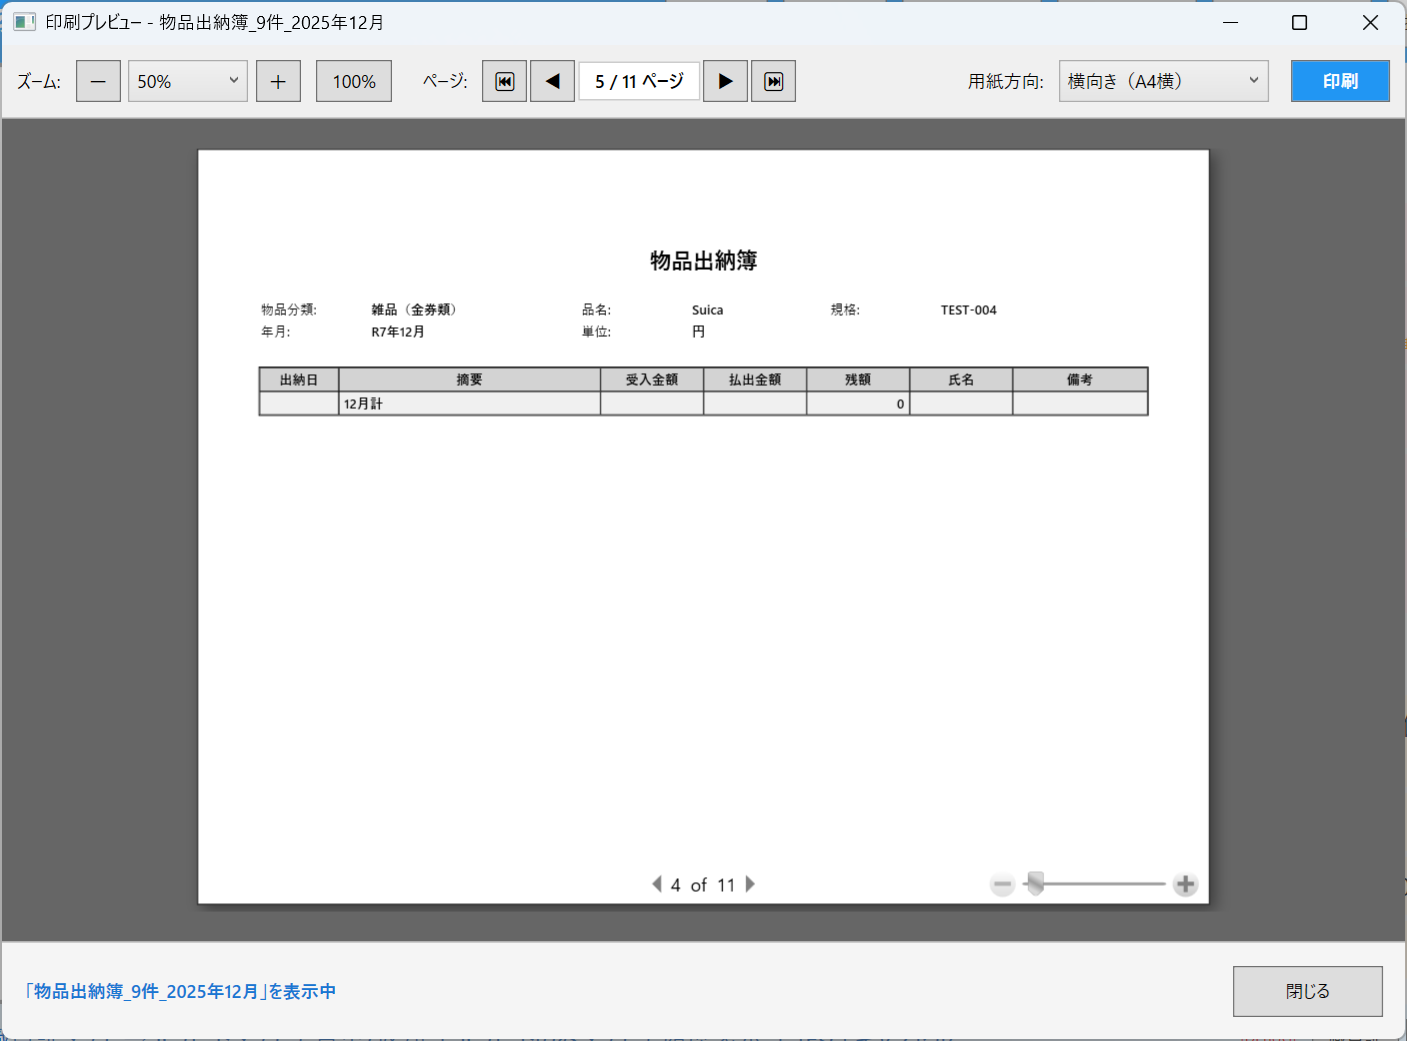
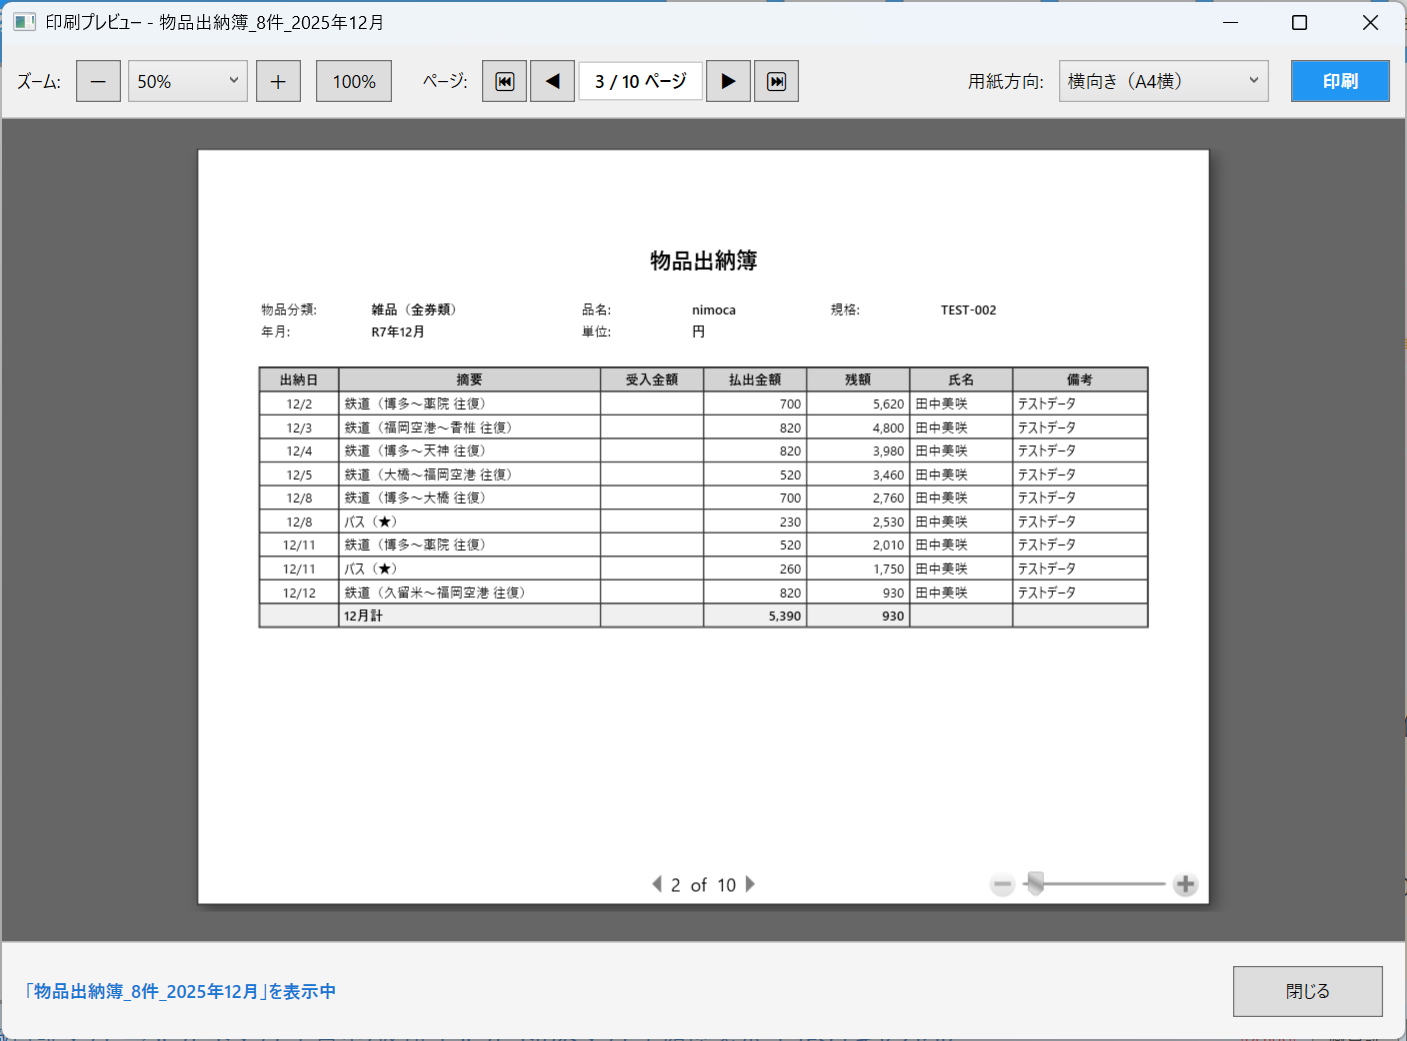
fix: ページ表示をViewerの値から直接更新 (Issue #117)
問題:
- ViewModelのCurrentPageとViewerのMasterPageNumberが同期しない

修正:
- XAMLのページ表示TextBlockにx:Nameを付与
- OnMasterPageNumberChangedで直接TextBlockを更新
- Viewerの値（MasterPageNumber + 1）を直接表示に反映
- ViewModelはCanExecuteの判定用に更新

🤖 Generated with [Claude Code](https://claude.com/claude-code)

Changed region(s): [[0.1834, 0.3689, 0.8252, 0.6148], [0.4279, 0.0615, 0.5807, 0.0922], [0.489, 0.2767, 0.5195, 0.3074]]

diff --git a/ICCardManager/src/ICCardManager/Views/Dialogs/PrintPreviewDialog.xaml b/ICCardManager/src/ICCardManager/Views/Dialogs/PrintPreviewDialog.xaml
@@ -119,7 +119,8 @@
                             BorderThickness="1"
                             Padding="10,4"
                             VerticalAlignment="Center">
-                        <TextBlock Text="{Binding PageDisplayText}"
+                        <TextBlock x:Name="PageDisplayTextBlock"
+                                   Text="1 / 1 ページ"
                                    FontWeight="Bold"
                                    AutomationProperties.LiveSetting="Polite"/>
                     </Border>

diff --git a/ICCardManager/src/ICCardManager/Views/Dialogs/PrintPreviewDialog.xaml.cs b/ICCardManager/src/ICCardManager/Views/Dialogs/PrintPreviewDialog.xaml.cs
@@ -93,13 +93,33 @@ public partial class PrintPreviewDialog : Window
     {
         if (DocumentViewer.Document == null) return;
 
-        // MasterPageNumberは0ベース、CurrentPageは1ベース
-        int viewerPage = DocumentViewer.MasterPageNumber + 1;
+        // MasterPageNumberは0ベース、表示は1ベース
+        int currentPage = DocumentViewer.MasterPageNumber + 1;
+        int totalPages = DocumentViewer.PageCount;
 
-        // 常にViewerの値をViewModelに反映（Viewerが真実の情報源）
-        if (viewerPage >= 1 && viewerPage <= DocumentViewer.PageCount)
+        // ツールバーのページ表示を直接更新（Viewerの値を直接反映）
+        UpdatePageDisplay(currentPage, totalPages);
+
+        // ViewModelも更新（CanExecuteの判定用）
+        ViewModel.CurrentPage = currentPage;
+        if (totalPages > 0)
         {
-            ViewModel.CurrentPage = viewerPage;
+            ViewModel.TotalPages = totalPages;
+        }
+    }
+
+    /// <summary>
+    /// ページ表示を更新
+    /// </summary>
+    private void UpdatePageDisplay(int currentPage, int totalPages)
+    {
+        if (totalPages > 0)
+        {
+            PageDisplayTextBlock.Text = $"{currentPage} / {totalPages} ページ";
+        }
+        else
+        {
+            PageDisplayTextBlock.Text = "ページなし";
         }
     }
 
@@ -181,9 +201,13 @@ public partial class PrintPreviewDialog : Window
         {
             // FlowDocumentPageViewerのPageCountプロパティを使用
             var pageCount = DocumentViewer.PageCount;
-            if (pageCount > 0 && pageCount != ViewModel.TotalPages)
+            var currentPage = DocumentViewer.MasterPageNumber + 1;
+
+            if (pageCount > 0)
             {
                 ViewModel.TotalPages = pageCount;
+                ViewModel.CurrentPage = currentPage;
+                UpdatePageDisplay(currentPage, pageCount);
             }
         }
     }
